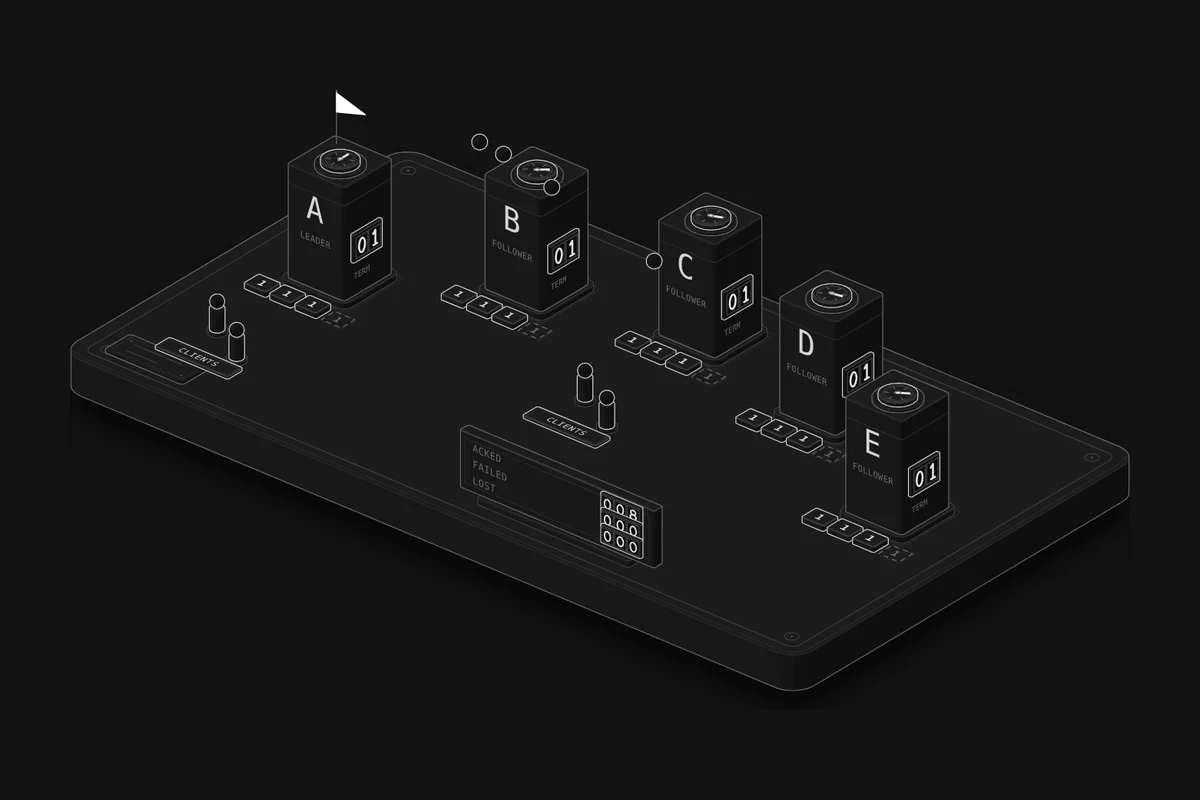
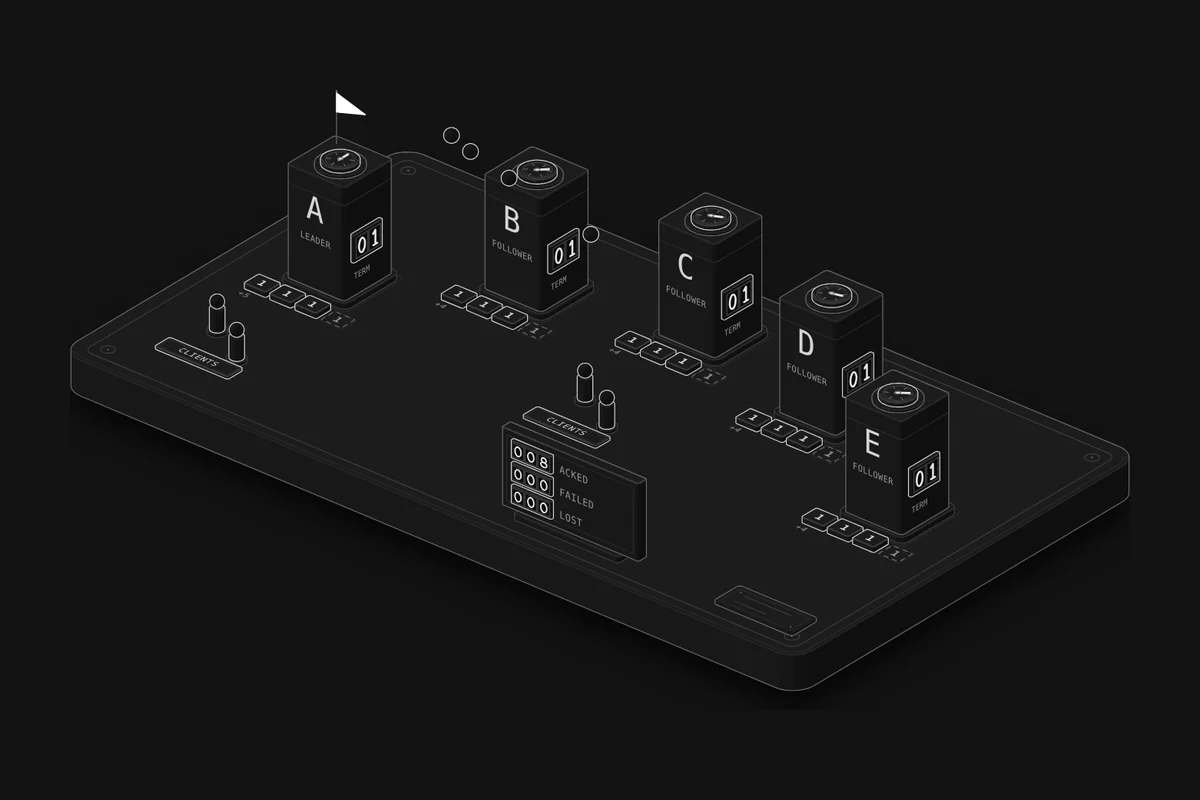
Lesson 63: fix review findings (Watch timing, fence clear of tower B, board counters)
- Watch: every experiment plays at 1/10 and acts 0.05 s in; the takeover cut and E's
  return jump the model clock to just before the heal, so each outcome shows within
  about 7 s.
- Fence posts move clear of the tower behind them (B for the cut, D for E alone), and
  the stretch in front of it keeps only its rails.
- Board: one housing per counter, its word right after it, with gaps between rows.
- Label plate moved to the empty front-right corner; "+N" tag for log entries older
  than the four tiles.
- Readout: the standing line follows the counts; plurals agree ("1 write"); a
  high-rank message stays up longer before the standing line returns.
- Spanish: CAÍDA for a down tower, Tumbar for crash, Levantar las torres.

Claude-Session: https://claude.ai/code/session_01S5z2gCvevbrGU3fXgpGDmP

diff --git a/src/lessons/election/live.ts b/src/lessons/election/live.ts
@@ -22,19 +22,20 @@ export default function mount({ P, G, BALL, REPLY, BALLOT, WRITE }, root) {
     const el = q(`[data-tile="${i}-${s}"]`);
     return { el, texts: [...el.querySelectorAll("[data-tile-text]")], state: "", label: "" };
   }));
+  const more = LETTERS.map((_, i) => ({ el: q(`[data-more="${i}"]`), text: null }));
   const fences = { cut: [...svg.querySelectorAll('[data-fence="cut"]')], solo: [...svg.querySelectorAll('[data-fence="solo"]')] };
   const board = { acked: WB.counter(svg, "acked", P), failed: WB.counter(svg, "failed", P), lost: WB.counter(svg, "lost", P) };
 
   // ---------- settings and the run ----------
   const cfg = { rule: "majority", timeouts: "random", n: 5, prevote: "off", net: "whole", speed: 0.05 };
-  let sim, clock, logAt, from, seed = 5, script = [], saidAt = -9, saidRank = 0, held = null, quietAt = 0;
+  let sim, clock, logAt, from, seed = 5, script = [], saidAt = -9, saidRank = 0, held = null, quietAt = 0, idleShown = false, lastFail = -9;
 
   function restart() {
     for (const x of active.values()) release(x);
     active.clear();
     sim = makeSim({ rule: cfg.rule, timeouts: cfg.timeouts, n: Number(cfg.n), prevote: cfg.prevote === "on" }, seed);
     seed = (seed * 7 + 3) % 9973 + 1;
-    clock = 0; logAt = 0; from = 0; script = []; held = null; saidRank = 0; quietAt = 0;
+    clock = 0; logAt = 0; from = 0; script = []; held = null; saidRank = 0; quietAt = 0; lastFail = -9;
     if (cfg.net !== "whole") sim.setNet(cfg.net, 0);
     paint();
     showStats();
@@ -42,29 +43,36 @@ export default function mount({ P, G, BALL, REPLY, BALLOT, WRITE }, root) {
 
   // ---------- narration ----------
   const letter = (i) => LETTERS[i];
+  // "1 write", "2 writes" in each language
+  const writesT = (n, en, es) => T(n + (n === 1 ? " write " : " writes ") + en, n + (n === 1 ? " escritura " : " escrituras ") + es);
   const sideOf = (net, i) => (net === "cut" ? (i >= 2 ? 1 : 0) : net === "solo" ? (i === 4 ? 1 : 0) : 0);
   const cutText = () => sim.ids.filter((i) => i < 2).map(letter).join(" ") + " | " + sim.ids.filter((i) => i >= 2).map(letter).join(" ");
   function say(rank, text) {
     const wall = performance.now() / 1000;
     if (rank < saidRank && wall - saidAt < 1.4) { if (!held || rank >= held.rank) held = { rank, text, at: wall }; return; }
-    held = null; saidRank = rank; saidAt = wall; quietAt = wall;
+    held = null; saidRank = rank; saidAt = wall; quietAt = wall; idleShown = false;
     root.figure.say(L(text));
+  }
+  // the standing line when nothing is happening: who leads, and what has been acknowledged so far
+  function idleText() {
+    const top = sim.topLeader();
+    const k = sim.leaders();
+    if (k.length > 1 && cfg.rule === "takeover") return T(k.map(letter).join(" and ") + " both lead and acknowledge writes · split brain", k.map(letter).join(" y ") + " lideran y confirman escrituras · cerebro dividido");
+    if (k.length > 1) { const old = k.filter((i) => i !== top).map(letter).join(" "), n = sim.nodes[top].term; return T(old + " still thinks it leads · only " + letter(top) + " (term " + n + ") can commit", old + " todavía cree liderar · solo " + letter(top) + " (mandato " + n + ") puede confirmar"); }
+    if (top >= 0) { const n = sim.stats.acked, w = writesT(n, "acknowledged", n === 1 ? "confirmada" : "confirmadas"); return T(letter(top) + " leads term " + sim.nodes[top].term + " · " + w.en, letter(top) + " lidera el mandato " + sim.nodes[top].term + " · " + w.es); }
+    return T("no leader · writes are refused", "sin líder · se rechazan las escrituras");
   }
   function sayHeld() {
     const wall = performance.now() / 1000;
     if (held && wall - held.at > 2.5) held = null;
     if (held && wall - saidAt >= 1.4) { const h = held; held = null; saidRank = -1; say(h.rank, h.text); return; }
-    if (wall - quietAt > 3) {
-      const top = sim.topLeader();
-      const k = sim.leaders();
-      if (k.length > 1 && cfg.rule === "takeover") say(0, T(k.map(letter).join(" and ") + " both lead and acknowledge writes · split brain", k.map(letter).join(" y ") + " lideran y confirman escrituras · cerebro dividido"));
-      else if (k.length > 1) { const old = k.filter((i) => i !== top).map(letter).join(" "), n = sim.nodes[top].term; say(0, T(old + " still thinks it leads · only " + letter(top) + " (term " + n + ") can commit", old + " todavía cree liderar · solo " + letter(top) + " (mandato " + n + ") puede confirmar")); }
-      else if (top >= 0) say(0, T(letter(top) + " leads term " + sim.nodes[top].term + " · " + sim.stats.acked + " writes acknowledged", letter(top) + " lidera el mandato " + sim.nodes[top].term + " · " + sim.stats.acked + " escrituras confirmadas"));
-      else say(0, T("no leader · writes are refused", "sin líder · se rechazan las escrituras"));
+    // once quiet, the standing line; while it shows, it follows the counts as they change
+    if (idleShown || wall - quietAt > 3 + 0.5 * saidRank) {
+      const text = L(idleText());
+      if (!idleShown || text !== idleShown) { held = null; saidRank = 0; saidAt = wall; idleShown = text; root.figure.say(text); }
     }
   }
   const reach = (i) => sim.ids.filter((j) => !sim.nodes[j].down && sideOf(sim.net, j) === sideOf(sim.net, i)).length;
-  let lastFail = -9;
   function narrate() {
     for (; logAt < sim.log.length; logAt++) {
       const e = sim.log[logAt];
@@ -84,8 +92,8 @@ export default function mount({ P, G, BALL, REPLY, BALLOT, WRITE }, root) {
           else say(4, T(X + " sees term " + e.term + " · steps down", X + " ve el mandato " + e.term + " · deja de liderar"));
           break;
         case "truncate":
-          if (e.lost) say(6, T(X + " overwritten · " + e.lost + " acknowledged writes lost", X + " sobrescrita · " + e.lost + " escrituras confirmadas perdidas"));
-          else say(3, T(X + " drops " + e.dropped + " uncommitted entries", X + " descarta " + e.dropped + " entradas sin confirmar"));
+          if (e.lost) { const w = writesT(e.lost, e.lost === 1 ? "acknowledged and lost" : "acknowledged and lost", e.lost === 1 ? "confirmada perdida" : "confirmadas perdidas"); say(6, T(X + " overwritten · " + w.en, X + " sobrescrita · " + w.es)); }
+          else say(3, T(X + " drops " + e.dropped + (e.dropped === 1 ? " uncommitted entry" : " uncommitted entries"), X + " descarta " + e.dropped + (e.dropped === 1 ? " entrada sin confirmar" : " entradas sin confirmar")));
           break;
         case "behind": say(3, T(X + " refuses " + letter(e.c) + ": its log is behind", X + " rechaza a " + letter(e.c) + ": su registro está atrasado")); break;
         case "net":
@@ -93,7 +101,7 @@ export default function mount({ P, G, BALL, REPLY, BALLOT, WRITE }, root) {
           else if (e.mode === "solo") say(5, T("fence up · E alone", "cerca arriba · E aislada"));
           else say(5, T("fence down · the network is whole", "cerca abajo · la red está completa"));
           break;
-        case "crash": say(5, e.wasLeader ? T(X + " crashes · it led term " + e.term, X + " se apaga · lideraba el mandato " + e.term) : T(X + " crashes", X + " se apaga")); break;
+        case "crash": say(5, e.wasLeader ? T(X + " crashes · it led term " + e.term, X + " se cae · lideraba el mandato " + e.term) : T(X + " crashes", X + " se cae")); break;
         case "restart": say(5, T(X + " is back · term " + e.term, X + " vuelve · mandato " + e.term)); break;
         case "fail": {
           if (e.t - lastFail < 0.15) break;
@@ -187,6 +195,8 @@ export default function mount({ P, G, BALL, REPLY, BALLOT, WRITE }, root) {
         const label = idx < 0 ? "" : String(x.log[idx].term % 100);
         if (tile.label !== label) { tile.label = label; tile.texts.forEach((t) => setText(t, label)); }
       });
+      const older = len > G.TILES ? "+" + (len - G.TILES) : "";
+      if (more[i].text !== older) { more[i].text = older; setText(more[i].el, older); }
     }
     fences.cut.forEach((f) => show(f, sim.net === "cut"));
     fences.solo.forEach((f) => show(f, sim.net === "solo"));
@@ -231,34 +241,60 @@ export default function mount({ P, G, BALL, REPLY, BALLOT, WRITE }, root) {
   const wake = () => { if (loop.paused) loop.setPaused(false); };
   const crashLeader = () => {
     const i = sim.topLeader();
-    if (i < 0) { say(9, T("no leader to crash", "no hay líder para apagar")); return; }
+    if (i < 0) { say(9, T("no leader to crash", "no hay líder para tumbar")); return; }
     sim.crash(i, clock);
   };
   const crashFollower = () => {
     const f = sim.ids.filter((i) => !sim.nodes[i].down && sim.nodes[i].state !== "leader").reverse();
-    if (!f.length) { say(9, T("no follower left to crash", "no queda seguidora para apagar")); return; }
+    if (!f.length) { say(9, T("no follower left to crash", "no queda seguidora para tumbar")); return; }
     sim.crash(f[0], clock);
   };
   const actions = {
     crash: () => { crashLeader(); wake(); },
     crashFollower: () => { crashFollower(); wake(); },
-    restart: () => { const d = sim.ids.filter((i) => sim.nodes[i].down); if (!d.length) say(9, T("every tower is already up", "todas las torres ya están encendidas")); d.forEach((i) => sim.restart(i, clock)); wake(); },
+    restart: () => { const d = sim.ids.filter((i) => sim.nodes[i].down); if (!d.length) say(9, T("every tower is already up", "todas las torres ya están en pie")); d.forEach((i) => sim.restart(i, clock)); wake(); },
     reset: () => { restart(); say(9, T("started over", "empezó de nuevo")); },
   };
   root.on("action", (name) => actions[name]?.());
 
   // ---------- "Watch it on the machine": an experiment's settings and its script ----------
+  // Each Watch plays at 1/10 so the outcome shows within seconds. The cut and E's return heal CUT.len (SOLO.len) of model
+  // time after the fence goes up, so those two jump the model clock to shortly before the heal: the fence has then been
+  // up for a while, and the heal, and what it overwrites or upsets, comes about 3 s after the press.
+  const UP = 0.05;
+  function jump(to, line) {
+    sim.runTo(to);
+    clock = to;
+    while (logAt < sim.log.length && sim.log[logAt].t <= to) logAt++;
+    if (sim.log.length > 4000) { sim.log.splice(0, logAt); logAt = 0; }
+    held = null; saidRank = -1;
+    say(5, line());
+  }
   const SCRIPTS = {
-    cut: () => [{ t: 0.4, fn: () => setNet("cut") }, { t: 0.4 + CUT.len, fn: () => setNet("whole") }],
-    solo: () => [{ t: 0.4, fn: () => setNet("solo") }, { t: 0.4 + SOLO.len, fn: () => setNet("whole") }],
-    crash: () => [{ t: 0.4, fn: crashLeader }],
-    crash2: () => [{ t: 0.4, fn: crashFollower }, { t: 0.4, fn: crashFollower }],
+    cut: () => [{ t: UP, fn: () => setNet("cut") }, { t: UP + CUT.len, fn: () => setNet("whole") }],
+    takeover: () => {
+      sim.setNet("cut", UP); cfg.net = "cut"; root.press("net", "cut");
+      const up = (CUT.len - 0.3).toFixed(1);
+      jump(UP + CUT.len - 0.3, () => { const k = sim.leaders().map(letter); return k.length > 1 ? T("fence up " + up + " s · " + k.join(" and ") + " both lead", "cerca arriba hace " + up + " s · " + k.join(" y ") + " lideran") : T("fence up " + up + " s · " + idleText().en, "cerca arriba hace " + up + " s · " + idleText().es); });
+      return [{ t: UP + CUT.len, fn: () => setNet("whole") }];
+    },
+    solo: () => {
+      sim.setNet("solo", UP); cfg.net = "solo"; root.press("net", "solo");
+      const e = () => sim.nodes[4].term, rest = () => Math.max(...[0, 1, 2, 3].map((i) => sim.nodes[i].term));
+      jump(UP + SOLO.len - 0.3, () => T("E alone for " + (SOLO.len - 0.3).toFixed(1) + " s · E at term " + e() + ", the others at " + rest(), "E aislada hace " + (SOLO.len - 0.3).toFixed(1) + " s · E en el mandato " + e() + ", las demás en el " + rest()));
+      return [{ t: UP + SOLO.len, fn: () => setNet("whole") }];
+    },
+    crash: () => [{ t: UP, fn: crashLeader }],
+    crash2: () => [{ t: UP, fn: crashFollower }, { t: UP, fn: crashFollower }],
   };
   root.on("watch", (w) => {
     for (const key of ["rule", "timeouts", "n", "prevote"]) set(key, w[key], true);
+    set("speed", 0.1);
     cfg.net = "whole"; root.press("net", "whole");
     restart();
-    script = SCRIPTS[w.script] ? SCRIPTS[w.script]() : [];
+    // the cut's script with the takeover rule is the jump into the cut
+    const name = w.script === "cut" && w.rule === "takeover" ? "takeover" : w.script;
+    script = SCRIPTS[name] ? SCRIPTS[name]() : [];
     wake();
   });
 

diff --git a/src/lessons/election/figure.ts b/src/lessons/election/figure.ts
@@ -4,8 +4,8 @@
 // the last four entries of its log (each tile shows the term that wrote it: solid once committed, an outline while
 // not). The leader flies the lit pennant; a candidate an unlit one. Messages fly between the roofs: heartbeats as
 // balls, vote requests as ballots (lit when the vote is granted). A fence can rise between B and C (the cut), or
-// between D and E, leaving E alone; messages that reach a fence drop. Clients stand at the front, and the board at the front right
-// counts writes acknowledged, failed and lost.
+// between D and E, leaving E alone; messages that reach a fence drop (its posts stand clear of the towers behind it).
+// Clients stand at the front, and the board at the front counts writes acknowledged, failed and lost.
 // Built with the Anatomy kit (MIT, github.com/wheresryan22/anatomy) and the shared workbench parts.
 import * as k from "../../../workbench/kit.mjs";
 import { basePlate, labelPlate, digitCounter, dial, pennant, figurine, plaque, faceText, sign } from "../../../workbench/parts.mjs";
@@ -35,8 +35,8 @@ const Y0 = PLATE.y + 6, Y1 = PLATE.y + PLATE.d - 6;
 // The clients, one group on each side of the cut, and the scoreboard.
 export const CLIENTS = [[[-112, 18], [-97, 27]], [[-4, -20], [11, -12]]];
 export const CLIENT_Z = 12;
-const BOARD = { x: 2, y: 40, w: 74, d: 4, r: 0.6 };
-const BOARD_H = 19;
+const BOARD = { x: 18, y: 40, w: 52, d: 4, r: 0.6 };
+const BOARD_H = 26;
 
 export const P = k.fitProjection(
   [...k.boxCorners(PLATE, -PLATE_H - FOOT_H, 0), [TOWERS[2][0] - 11, TOWERS[2][1] - 11, TOWER.h + 20], [TOWERS[0][0] - 11, TOWERS[0][1] - 11, TOWER.h + 20], [CUT_X, PLATE.y + 6, FENCE_H]],
@@ -51,7 +51,7 @@ const text = (p, words, opts = {}) => faceText(P, p, words, { tone: "mid", ...op
 
 function plate() {
   return basePlate(P, PLATE, { height: PLATE_H, foot: FOOT_H })
-    + labelPlate(P, { x: -130, y: 36, w: 30, d: 12, r: 1.4 }, [[-125, 40, 18], [-125, 44, 12]]);
+    + labelPlate(P, { x: 100, y: 34, w: 30, d: 12, r: 1.4 }, [[105, 38, 18], [105, 42, 12]]);
 }
 
 // ---------- a tower ----------
@@ -61,7 +61,9 @@ export function tilePlan(i, s) {
   return { x: x - span / 2 + s * (TILE.w + TILE.gap), y: y + TOWER.w / 2 + 3.4, w: TILE.w, d: TILE.d, r: 0.6 };
 }
 function tiles(i) {
-  const out = [];
+  // the entries older than the four tiles, as a +N tag in front of the oldest tile shown, where the row is cut off
+  const p0 = tilePlan(i, 0);
+  const out = [faceText(P, [p0.x + 0.4, p0.y + p0.d + 3.6, 0], "", { face: "top", size: 3, tone: "mid", attr: `data-more="${i}"` })];
   for (let s = 0; s < TILES; s++) {
     const p = tilePlan(i, s);
     const mid = [p.x + p.w / 2, p.y + p.d / 2 + 1.4];
@@ -84,7 +86,7 @@ function tower(i) {
   // the letter and the role on the front face
   out.push(text([x, front, TOWER.h - 15], LETTERS[i], { size: 11, tone: "hi", anchor: "middle" }));
   const roles = {
-    leader: t("LEADER", "LÍDER"), candidate: t("CANDIDATE", "CANDIDATA"), follower: t("FOLLOWER", "SEGUIDORA"), down: t("DOWN", "APAGADA"),
+    leader: t("LEADER", "LÍDER"), candidate: t("CANDIDATE", "CANDIDATA"), follower: t("FOLLOWER", "SEGUIDORA"), down: t("DOWN", "CAÍDA"),
   };
   for (const [key, words] of Object.entries(roles)) out.push(`<g data-role-word="${key}">${text([x, front, TOWER.h - 22.4], words, { size: 3, anchor: "middle" })}</g>`);
   // the term on the right face
@@ -105,16 +107,45 @@ function pad(i) {
 }
 
 // ---------- fences ----------
-// A see-through fence: posts, two rails and a diagonal mesh, from a to b on the plate.
-function fence(a, b, every = 18) {
+// The stretch of a fence (shares u of the way from a to b) that stands in front of a tower on screen: a post there
+// would cover the tower's letter, role and term.
+function hidesTower(a, b, i) {
+  const [x, y] = TOWERS[i], half = TOWER.w / 2 + 1;
+  const corners = [];
+  for (const dx of [-half, half]) for (const dy of [-half, half]) for (const z of [0, TOWER.h]) corners.push(k.iso([x + dx, y + dy, z], P));
+  const lo = Math.min(...corners.map((c) => c[0])) - 3, hi = Math.max(...corners.map((c) => c[0])) + 3;
+  return (u) => {
+    const p = [a[0] + (b[0] - a[0]) * u, a[1] + (b[1] - a[1]) * u];
+    const sx = k.iso([p[0], p[1], 0], P)[0];
+    return sx > lo && sx < hi && depth(p) > depth([x, y]);
+  };
+}
+// A see-through fence: posts, two rails and a diagonal mesh, from a to b on the plate. Posts that would stand in front
+// of one of the towers in "clear" move to the nearest spot beside it.
+function fence(a, b, clear = [], every = 18) {
   const len = Math.hypot(b[0] - a[0], b[1] - a[1]);
   const n = Math.max(1, Math.round(len / every));
   const pt = (u, z) => [a[0] + (b[0] - a[0]) * u, a[1] + (b[1] - a[1]) * u, z];
-  const posts = [], mesh = [];
-  for (let j = 0; j <= n; j++) posts.push({ u: j / n, p: pt(j / n, 0) });
-  posts.sort((p, q) => depth(p.p) - depth(q.p));
-  for (let j = 0; j < n; j++) {
-    const u0 = j / n, u1 = (j + 1) / n;
+  const blocked = clear.map((i) => hidesTower(a, b, i));
+  const bad = (u) => blocked.some((f) => f(u));
+  const us = [];
+  for (let j = 0; j <= n; j++) {
+    let u = j / n;
+    if (bad(u)) {
+      // the nearest free spot on either side
+      let down = u, up = u;
+      while (down > 0 && bad(down)) down -= 0.005;
+      while (up < 1 && bad(up)) up += 0.005;
+      u = !bad(Math.max(0, down)) && (u - down <= up - u || bad(Math.min(1, up))) ? Math.max(0, down) : Math.min(1, up);
+    }
+    if (!us.some((v) => Math.abs(v - u) < 0.6 / n)) us.push(u);
+  }
+  us.sort((p, q) => p - q);
+  const posts = us.map((u) => ({ u, p: pt(u, 0) })).sort((p, q) => depth(p.p) - depth(q.p));
+  const mesh = [];
+  for (let j = 0; j < us.length - 1; j++) {
+    const u0 = us[j], u1 = us[j + 1];
+    if (bad((u0 + u1) / 2)) continue;              // the stretch in front of a tower: rails only
     mesh.push(k.segment(pt(u0, 4), pt(u1, FENCE_H - 4), P), k.segment(pt(u0, FENCE_H - 4), pt(u1, 4), P));
   }
   const out = [L(mesh.join(""), { tone: "faint" })];
@@ -123,12 +154,12 @@ function fence(a, b, every = 18) {
   return out.join("");
 }
 function cutFence() {
-  return `<g data-fence="cut" style="display:none">${fence([CUT_X, Y0], [CUT_X, Y1])}`
+  return `<g data-fence="cut" style="display:none">${fence([CUT_X, Y0], [CUT_X, Y1], [1])}`
     + sign(P, { x: CUT_X, y: 26, z: 24, w: 26, h: 9, face: "x", text: t("CUT", "CORTE"), size: 4.4, posts: false })
     + `</g>`;
 }
 function soloFence() {
-  return `<g data-fence="solo" style="display:none">${fence([SOLO_X, Y0], [SOLO_X, Y1])}`
+  return `<g data-fence="solo" style="display:none">${fence([SOLO_X, Y0], [SOLO_X, Y1], [3])}`
     + sign(P, { x: SOLO_X, y: 26, z: 24, w: 26, h: 9, face: "x", text: t("CUT", "CORTE"), size: 4.4, posts: false })
     + `</g>`;
 }
@@ -141,14 +172,15 @@ function clients(g) {
   return out.join("");
 }
 function board() {
-  const out = [S(k.slabOf({ x: BOARD.x + 8, y: BOARD.y - 4, w: BOARD.w - 16, d: 10, r: 1 }, 0, 2, P, 3, 0.4), { tone: "lo" })];
+  const out = [S(k.slabOf({ x: BOARD.x + 6, y: BOARD.y - 4, w: BOARD.w - 12, d: 10, r: 1 }, 0, 2, P, 3, 0.4), { tone: "lo" })];
   out.push(S(k.slabOf(BOARD, 2, BOARD_H, P, 3, 0.4), { tone: "mid", crease: "lo" }));
   const face = BOARD.y + BOARD.d;
   out.push(L(k.faceRectY(P, BOARD.x + 2, BOARD.x + BOARD.w - 2, face, 4, BOARD_H), { tone: "faint" }));
-  const rows = [["acked", t("ACKED", "CONFIRMADAS"), 14.6], ["failed", t("FAILED", "FALLIDAS"), 9.2], ["lost", t("LOST", "PERDIDAS"), 3.8]];
+  // one housing per row, its word right after it
+  const rows = [["acked", t("ACKED", "CONFIRMADAS"), 19.6], ["failed", t("FAILED", "FALLIDAS"), 12], ["lost", t("LOST", "PERDIDAS"), 4.4]];
   for (const [name, words, z] of rows) {
-    out.push(text([BOARD.x + 5, face, z + 1.1], words, { size: 3.4 }));
-    out.push(digitCounter(P, { x: BOARD.x + BOARD.w - 20, y: face, z, count: 3, w: 4.4, h: 4.6, gap: 0.5, pad: 0.6, name }));
+    out.push(digitCounter(P, { x: BOARD.x + 4, y: face, z, count: 3, w: 4.4, h: 4.6, gap: 0.5, pad: 0.6, name }));
+    out.push(text([BOARD.x + 22, face, z + 1.2], words, { size: 3.4 }));
   }
   return out.join("");
 }
@@ -174,8 +206,8 @@ export function buildFigure() {
     width: WIDTH,
     height: HEIGHT,
     label: t(
-      "Five signal towers, A to E, on a base plate, electing a leader. Each tower shows its letter and its role (leader, candidate, follower or down) on its front, its term on digit wheels on its right side, and an election timer as a dial on its roof. The leader flies a lit pennant; a candidate flies an unlit one. On the plate in front of each tower lie the last four entries of its log, each marked with the term that wrote it: a solid tile once committed, a dashed outline while not. Small balls fly between the roofs as heartbeats and their replies; ballots fly as vote requests, lit when a vote is granted. A fence can rise between towers B and C, cutting the network in two, or between D and E, leaving E alone; messages that reach it drop. Clients stand at the front on each side, and a board at the front right counts writes acknowledged, failed, and acknowledged then lost.",
-      "Cinco torres de señales, de la A a la E, sobre una placa base, eligiendo un líder. Cada torre muestra su letra y su papel (líder, candidata, seguidora o apagada) al frente, su mandato en ruedas de dígitos en su lado derecho y un temporizador de elección como un dial en su techo. La líder lleva un banderín encendido; una candidata, uno apagado. Sobre la placa, frente a cada torre, están las últimas cuatro entradas de su registro, cada una marcada con el mandato que la escribió: una ficha sólida cuando ya se confirmó, un contorno punteado mientras no. Pequeñas bolas vuelan entre los techos como latidos y sus respuestas; boletas vuelan como pedidos de voto, encendidas cuando se concede el voto. Puede levantarse una cerca entre las torres B y C, que corta la red en dos, o entre D y E, que deja sola a E; los mensajes que llegan a ella se pierden. Al frente, a cada lado, hay clientes, y un tablero adelante a la derecha cuenta las escrituras confirmadas, fallidas, y confirmadas y luego perdidas.",
+      "Five signal towers, A to E, on a base plate, electing a leader. Each tower shows its letter and its role (leader, candidate, follower or down) on its front, its term on digit wheels on its right side, and an election timer as a dial on its roof. The leader flies a lit pennant; a candidate flies an unlit one. On the plate in front of each tower lie the last four entries of its log, each marked with the term that wrote it: a solid tile once committed, a dashed outline while not; a +N tag in front of the oldest one counts the older entries. Small balls fly between the roofs as heartbeats and their replies; ballots fly as vote requests, lit when a vote is granted. A fence can rise between towers B and C, cutting the network in two, or between D and E, leaving E alone; messages that reach it drop. Clients stand at the front on each side, and a board at the front counts writes acknowledged, failed, and acknowledged then lost, each on digit wheels with its word to the right.",
+      "Cinco torres de señales, de la A a la E, sobre una placa base, eligiendo un líder. Cada torre muestra su letra y su papel (líder, candidata, seguidora o caída) al frente, su mandato en ruedas de dígitos en su lado derecho y un temporizador de elección como un dial en su techo. La líder lleva un banderín encendido; una candidata, uno apagado. Sobre la placa, frente a cada torre, están las últimas cuatro entradas de su registro, cada una marcada con el mandato que la escribió: una ficha sólida cuando ya se confirmó, un contorno punteado mientras no; una etiqueta +N frente a la más vieja cuenta las entradas anteriores. Pequeñas bolas vuelan entre los techos como latidos y sus respuestas; boletas vuelan como pedidos de voto, encendidas cuando se concede el voto. Puede levantarse una cerca entre las torres B y C, que corta la red en dos, o entre D y E, que deja sola a E; los mensajes que llegan a ella se pierden. Al frente, a cada lado, hay clientes, y un tablero adelante cuenta las escrituras confirmadas, fallidas, y confirmadas y luego perdidas, cada una en ruedas de dígitos con su palabra a la derecha.",
     ),
     body: [
       plate(),

diff --git a/src/lessons/election/page.ts b/src/lessons/election/page.ts
@@ -80,9 +80,9 @@ const RUNS = {
     const row = (key, n, after) => [t(n + " towers", n + " torres"), s[n][key].acked, pct(s[n][key].acked), after];
     return {
       verdict: t("One follower down: " + pct(s[3].one.acked) + ", " + pct(s[4].one.acked) + " and " + pct(s[5].one.acked) + " of writes acknowledged with 3, 4 and 5 towers. Two down: " + pct(s[3].two.acked) + ", " + pct(s[4].two.acked) + " and " + pct(s[5].two.acked) + ". Network cut at the fence: " + pct(s[3].cut.acked) + ", " + pct(s[4].cut.acked) + " and " + pct(s[5].cut.acked) + ".",
-        "Una seguidora apagada: se confirmó el " + pct(s[3].one.acked) + ", " + pct(s[4].one.acked) + " y " + pct(s[5].one.acked) + " de las escrituras con 3, 4 y 5 torres. Dos apagadas: " + pct(s[3].two.acked) + ", " + pct(s[4].two.acked) + " y " + pct(s[5].two.acked) + ". Red cortada en la cerca: " + pct(s[3].cut.acked) + ", " + pct(s[4].cut.acked) + " y " + pct(s[5].cut.acked) + "."),
+        "Una seguidora caída: se confirmó el " + pct(s[3].one.acked) + ", " + pct(s[4].one.acked) + " y " + pct(s[5].one.acked) + " de las escrituras con 3, 4 y 5 torres. Dos caídas: " + pct(s[3].two.acked) + ", " + pct(s[4].two.acked) + " y " + pct(s[5].two.acked) + ". Red cortada en la cerca: " + pct(s[3].cut.acked) + ", " + pct(s[4].cut.acked) + " y " + pct(s[5].cut.acked) + "."),
       groups: [
-        { title: t("Writes acked, two followers down", "Escrituras confirmadas, dos seguidoras apagadas"), bars: [row("two", 3), row("two", 4, true), row("two", 5)] },
+        { title: t("Writes acked, two followers down", "Escrituras confirmadas, dos seguidoras caídas"), bars: [row("two", 3), row("two", 4, true), row("two", 5)] },
         { title: t("Writes acked, network cut at the fence", "Escrituras confirmadas, red cortada en la cerca"), bars: [row("cut", 3), row("cut", 4, true), row("cut", 5)] },
       ],
     };
@@ -161,8 +161,8 @@ const EXPERIMENTS = [
     id: "size",
     title: t("Add a fourth tower", "Agregar una cuarta torre"),
     change: t("Majority vote · 3 towers (A, C, E), 4 (A, B, D, E) or 5 · then crash one follower, or two, or cut the network at the fence between B and C",
-      "Voto por mayoría · 3 torres (A, C, E), 4 (A, B, D, E) o 5 · después se apaga una seguidora, o dos, o se corta la red en la cerca entre B y C"),
-    question: t("How many crashed towers can four towers survive and still acknowledge writes?", "¿Cuántas torres apagadas aguantan cuatro torres sin dejar de confirmar escrituras?"),
+      "Voto por mayoría · 3 torres (A, C, E), 4 (A, B, D, E) o 5 · después se tumba una seguidora, o dos, o se corta la red en la cerca entre B y C"),
+    question: t("How many crashed towers can four towers survive and still acknowledge writes?", "¿Cuántas torres caídas aguantan cuatro torres sin dejar de confirmar escrituras?"),
     options: [
       t("Two: half of the towers is still enough", "Dos: la mitad de las torres todavía alcanza"),
       t("One, the same as three towers", "Una, lo mismo que tres torres"),
@@ -171,7 +171,7 @@ const EXPERIMENTS = [
     answer: 1,
     why: t(
       "A majority of 4 is 3. With two down, the two left can't commit anything: " + pct(Z[4].two.acked) + " of writes acknowledged, the same as three towers with two down (" + pct(Z[3].two.acked) + "), while five survive two (" + pct(Z[5].two.acked) + "). A cluster of 2f + 1 tolerates f failures; the fourth tower is one more machine that can fail and one more vote to wait for, not one more failure it survives. An even count also splits evenly: cut A B | D E and neither side has 3 of 4, so nothing commits (" + pct(Z[4].cut.acked) + "), while three towers cut A | C E keep going on the C E side (" + pct(Z[3].cut.acked) + ", the writes that reached C or E). That is why etcd, Consul and ZooKeeper are run with 3 or 5 voting members.",
-      "La mayoría de 4 es 3. Con dos apagadas, las dos que quedan no pueden confirmar nada: se confirmó el " + pct(Z[4].two.acked) + " de las escrituras, lo mismo que tres torres con dos apagadas (" + pct(Z[3].two.acked) + "), mientras que cinco aguantan dos (" + pct(Z[5].two.acked) + "). Un clúster de 2f + 1 tolera f fallas; la cuarta torre es una máquina más que puede fallar y un voto más que esperar, no una falla más que aguanta. Un número par además se divide parejo: con el corte A B | D E ningún lado tiene 3 de 4, así que nada se confirma (" + pct(Z[4].cut.acked) + "), mientras que tres torres cortadas A | C E siguen funcionando del lado C E (" + pct(Z[3].cut.acked) + ", las escrituras que llegaron a C o a E). Por eso etcd, Consul y ZooKeeper se corren con 3 o 5 miembros con voto.",
+      "La mayoría de 4 es 3. Con dos caídas, las dos que quedan no pueden confirmar nada: se confirmó el " + pct(Z[4].two.acked) + " de las escrituras, lo mismo que tres torres con dos caídas (" + pct(Z[3].two.acked) + "), mientras que cinco aguantan dos (" + pct(Z[5].two.acked) + "). Un clúster de 2f + 1 tolera f fallas; la cuarta torre es una máquina más que puede fallar y un voto más que esperar, no una falla más que aguanta. Un número par además se divide parejo: con el corte A B | D E ningún lado tiene 3 de 4, así que nada se confirma (" + pct(Z[4].cut.acked) + "), mientras que tres torres cortadas A | C E siguen funcionando del lado C E (" + pct(Z[3].cut.acked) + ", las escrituras que llegaron a C o a E). Por eso etcd, Consul y ZooKeeper se corren con 3 o 5 miembros con voto.",
     ),
     watch: { rule: "majority", timeouts: "random", n: 4, prevote: "off", script: "crash2" },
   },
@@ -223,12 +223,12 @@ export default defineLesson({
     "La elección de líder permite que un clúster se ponga de acuerdo en un nodo que reciba las escrituras, y que lo reemplace cuando falla. Notar que la líder ya no está es lo fácil; lo difícil es asegurar que dos nodos no puedan actuar como líder a la vez cuando la red se parte. Esta lección convierte la elección de Raft en cinco torres de señales que votan por mayoría: mírala, predice qué la rompe y después explícala."),
   machine: {
     intro: t("A leads term 1 and sends heartbeats to the other towers. Each follower's dial is its election timer: a heartbeat sends the needle back to zero, and if the needle comes all the way round, the tower becomes a candidate for the next term and asks for votes. A majority of votes makes it the leader. Clients send writes to any tower they can reach; a write is acknowledged once a majority holds it. Cut the network, crash towers, change the rule or the timeouts.",
-      "A lidera el mandato 1 y les manda latidos (heartbeats) a las demás torres. El dial de cada seguidora es su temporizador de elección: un latido devuelve la aguja a cero, y si la aguja da toda la vuelta, la torre se vuelve candidata para el mandato siguiente y pide votos. Una mayoría de votos la convierte en líder. Los clientes mandan escrituras a cualquier torre que alcancen; una escritura se confirma cuando la tiene una mayoría. Corta la red, apaga torres, cambia la regla o los tiempos límite."),
+      "A lidera el mandato 1 y les manda latidos (heartbeats) a las demás torres. El dial de cada seguidora es su temporizador de elección: un latido devuelve la aguja a cero, y si la aguja da toda la vuelta, la torre se vuelve candidata para el mandato siguiente y pide votos. Una mayoría de votos la convierte en líder. Los clientes mandan escrituras a cualquier torre que alcancen; una escritura se confirma cuando la tiene una mayoría. Corta la red, tumba torres, cambia la regla o los tiempos límite."),
     plate: {
       title: t("Signal towers", "Torres de señales"),
       keys: [
         { mark: "lit", label: t("The leader's pennant; a granted vote", "El banderín de la líder; un voto concedido") },
-        { mark: "raised", label: t("Log tiles: the term that wrote each entry, solid once committed", "Fichas del registro: el mandato que escribió cada entrada, sólida cuando se confirmó") },
+        { mark: "raised", label: t("Log tiles: the term that wrote each entry, solid once committed; +N, the older entries", "Fichas del registro: el mandato que escribió cada entrada, sólida cuando se confirmó; +N, las entradas anteriores") },
         { mark: "flat", label: t("Fence: messages can't cross it", "Cerca: los mensajes no la cruzan") },
       ],
       caption: t(
@@ -254,10 +254,10 @@ export default defineLesson({
       { seg: "n", label: t("Towers", "Torres"), options: [[3, "3"], [4, "4"], [5, "5"]], value: 5 },
       { seg: "prevote", label: t("Pre-Vote", "Prevoto"), options: [["off", t("Off", "Apagado")], ["on", t("On", "Encendido")]], value: "off" },
       { speed: true, options: [[0.02, "1/50"], [0.05, "1/20"], [0.1, "1/10"]], value: 0.05 },
-      { actions: [["crash", t("Crash the leader", "Apagar a la líder"), { primary: true }], ["crashFollower", t("Crash a follower", "Apagar una seguidora")], ["restart", t("Restart towers", "Encender las torres")], ["reset", t("Start over", "Empezar de nuevo")], ["pause", t("Pause", "Pausa")]], label: t("Do something", "Haz algo") },
+      { actions: [["crash", t("Crash the leader", "Tumbar a la líder"), { primary: true }], ["crashFollower", t("Crash a follower", "Tumbar una seguidora")], ["restart", t("Restart towers", "Levantar las torres")], ["reset", t("Start over", "Empezar de nuevo")], ["pause", t("Pause", "Pausa")]], label: t("Do something", "Haz algo") },
     ],
     note: t("The network changes at once; changing the rule, the timeout, the towers or Pre-Vote starts the run again. With 3 towers the cluster is A, C and E; with 4, A, B, D and E. A crashed tower keeps its term and its log, as Raft keeps them on disk.",
-      "La red cambia al instante; cambiar la regla, el tiempo límite, las torres o el prevoto reinicia la ejecución. Con 3 torres el clúster es A, C y E; con 4, A, B, D y E. Una torre apagada conserva su mandato y su registro, como Raft los guarda en disco."),
+      "La red cambia al instante; cambiar la regla, el tiempo límite, las torres o el prevoto reinicia la ejecución. Con 3 torres el clúster es A, C y E; con 4, A, B, D y E. Una torre caída conserva su mandato y su registro, como Raft los guarda en disco."),
   },
   predict: { intro: t("Each experiment changes one thing. Choose what you expect <em>before</em> running it. Results come from the same model as the machine, averaged over eight seeded runs.",
     "Cada experimento cambia una sola cosa. Elige lo que esperas <em>antes</em> de ejecutarlo. Los resultados salen del mismo modelo que la máquina, promediados sobre ocho ejecuciones con semilla fija."), experiments: withResults(EXPERIMENTS, RUNS) },
